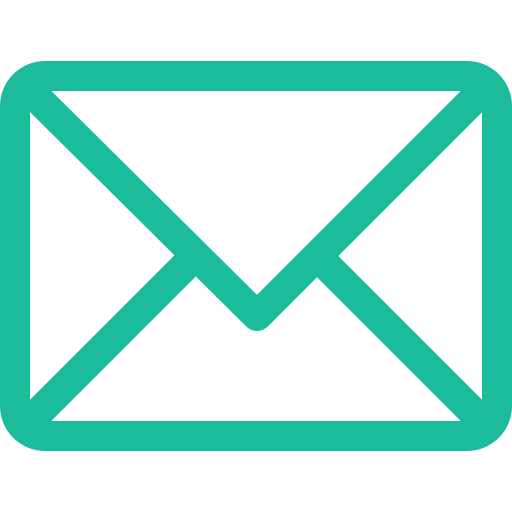
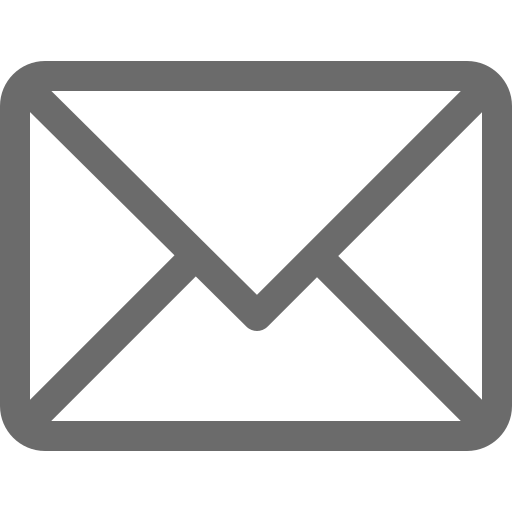
footer-addition

diff --git a/base_app/templates/base_app/home.html b/base_app/templates/base_app/home.html
@@ -23,6 +23,10 @@
       rel="stylesheet"
       href="https://cdnjs.cloudflare.com/ajax/libs/font-awesome/5.15.2/css/all.min.css"
     />
+    <link
+      rel="stylesheet"
+      href="https://cdnjs.cloudflare.com/ajax/libs/font-awesome/5.15.3/css/all.min.css"
+    />
     <!-- Font -->
     <link rel="preconnect" href="https://fonts.googleapis.com" />
     <link rel="preconnect" href="https://fonts.gstatic.com" crossorigin />
@@ -190,16 +194,20 @@
 
           <div class="info">
             <div class="information">
-              <img src="{% static 'img/location.png' %}" class="icon" alt="" />
-              <p>92 Cherry Drive Uniondale, NY 11553</p>
+              <img
+                src="{% static 'images/location.png' %}"
+                class="icon"
+                alt=""
+              />
+              <p>CyberTower, Ernakulam, Kerala, India - 683556</p>
             </div>
             <div class="information">
-              <img src="{% static 'img/email.png' %}" class="icon" alt="" />
-              <p>lorem@ipsum.com</p>
+              <img src="{% static 'images/email.png' %}" class="icon" alt="" />
+              <p>karthikunnikrishnan.dev@gmail.com</p>
             </div>
             <div class="information">
-              <img src="{% static 'img/phone.png' %}" class="icon" alt="" />
-              <p>123-456-789</p>
+              <img src="{% static 'images/phone.png' %}" class="icon" alt="" />
+              <p>+91 9037922004</p>
             </div>
           </div>
 
@@ -262,6 +270,26 @@
         </div>
       </div>
     </div>
+
+    <!-- Footer Section -->
+
+    <footer class="footer">
+      <div class="header">
+        <a href="#"
+          ><img src="{% static 'images/logo-footer.svg' %}" alt=""
+        /></a>
+      </div>
+      <div class="nav">
+        <a href="#">Home</a>
+        <a href="#about">About</a>
+        <a href="#contact">Contact</a>
+        <a href="#why-choose-us">Why Choose Us?</a>
+      </div>
+      <div class="footer-text">
+        © BrightFuture. All Rights Reserved. Created By karthik Unnikrishnan
+      </div>
+    </footer>
+
     <!-- Linking Javascript File -->
     <script type="text/javascript" src="{% static 'js/home.js' %}"></script>
   </body>

diff --git a/base_app/static/css/home.css b/base_app/static/css/home.css
@@ -623,6 +623,7 @@ textarea.input {
 }
 
 .icon {
+  color: #424242;
   width: 28px;
   margin-right: 0.7rem;
 }
@@ -783,4 +784,34 @@ textarea.input {
   .btn {
     padding: 0.45rem 1.2rem;
   }
+}
+
+
+/* Footer Section Styling */
+
+.footer {
+  font-family: 'Poppins', sans-serif;
+  text-align: center;
+  padding: 50px 0;
+  background-color: #fff;
+  color: #353535;
+}
+.footer .header a img {
+  width: 30rem;
+}
+.footer .nav a {
+  margin: 0 15px;
+  text-decoration: none;
+  color: #414141;
+  font-size: 16px;
+  transition: color 0.3s ease;
+}
+
+.footer .nav a:hover {
+  color: #a4c868;
+}
+.footer .footer-text {
+  margin-top: 20px;
+  font-size: 14px;
+  color: #888;
 }
